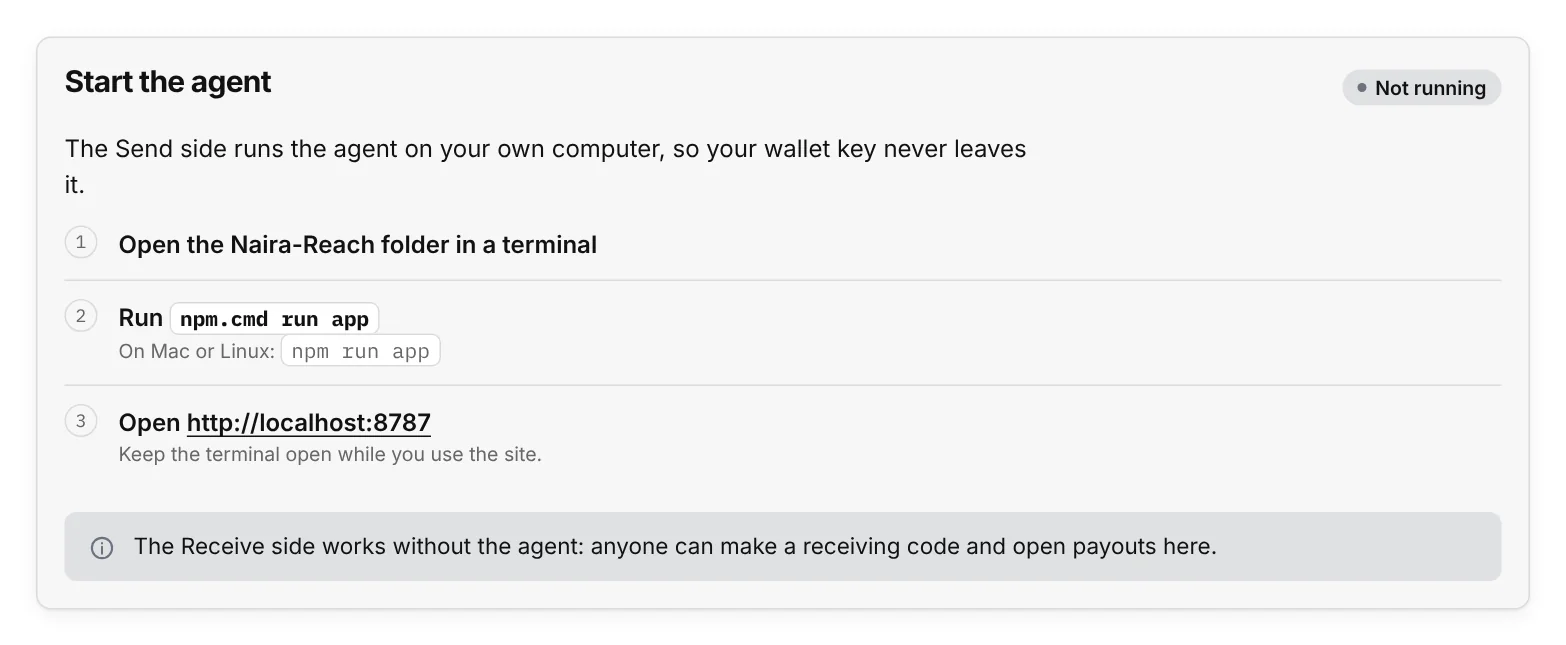
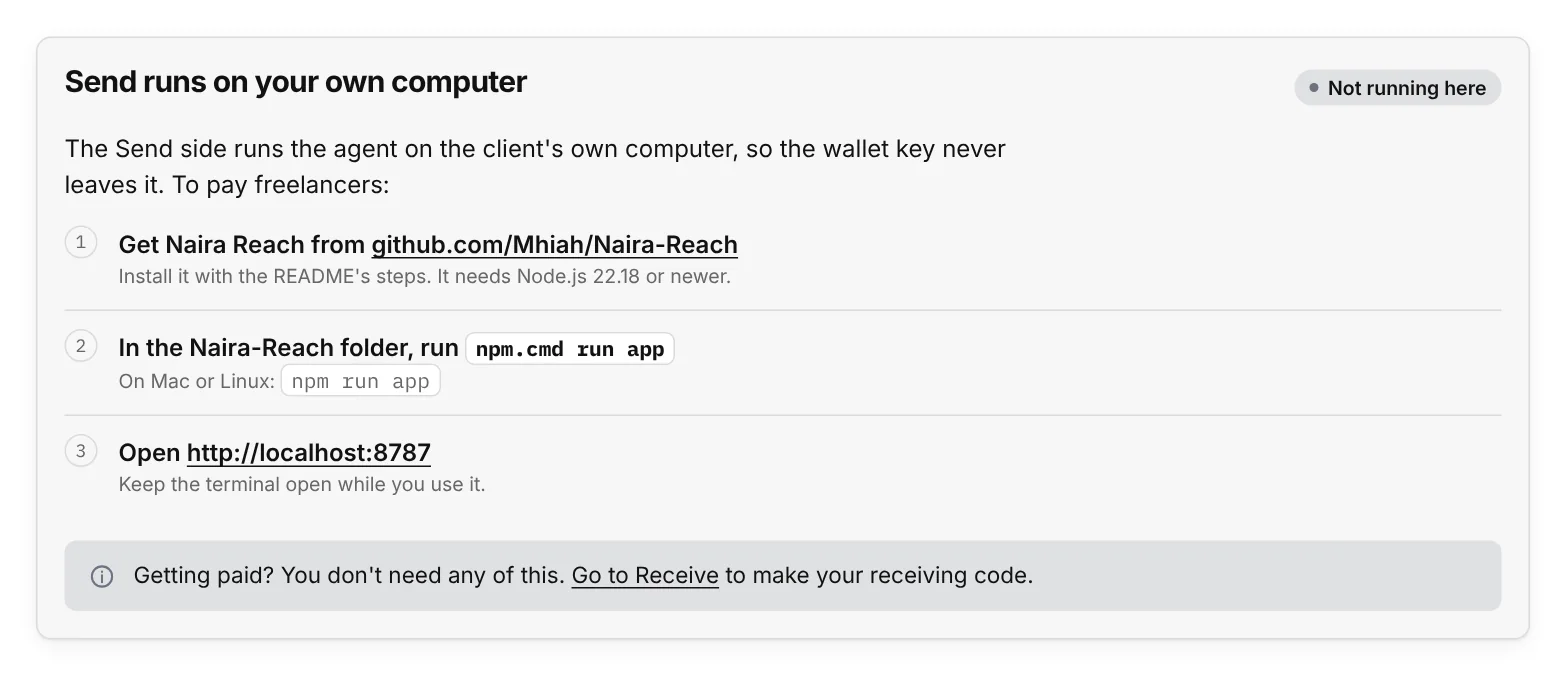
Online Receive site: opens on Receive, Send explains it runs on the client's computer, strict browser protections, moves carry the app's tag

diff --git a/web/app.js b/web/app.js
@@ -172,19 +172,29 @@
   }
 
   function agentMissing(title) {
-    const reason = CFG.agent
-      ? `The agent stopped answering (${esc(stateError)}). Is the window running it still open?`
-      : "The Send side runs the agent on your own computer, so your wallet key never leaves it.";
-    return `${head({ title })}
+    if (CFG.agent) {
+      return `${head({ title })}
     <section class="card stack" aria-label="Start the agent">
-      <div class="card-head" style="margin-bottom:0"><h2>Start the agent</h2>${badge("Not running", "neutral")}</div>
-      <p>${reason}</p>
+      <div class="card-head" style="margin-bottom:0"><h2>Start the agent</h2>${badge("Not answering", "neutral")}</div>
+      <p>The agent stopped answering (${esc(stateError)}). Is the window running it still open?</p>
       <ol class="checks">
         <li><span class="ico todo">1</span><div><div class="strong">Open the Naira-Reach folder in a terminal</div></div><span></span></li>
         <li><span class="ico todo">2</span><div><div class="strong">Run <code>npm.cmd run app</code></div><div class="small muted">On Mac or Linux: <code>npm run app</code></div></div><span></span></li>
-        <li><span class="ico todo">3</span><div><div class="strong">Open <a href="http://localhost:8787">http://localhost:8787</a></div><div class="small muted">Keep the terminal open while you use the site.</div></div><span></span></li>
+        <li><span class="ico todo">3</span><div><div class="strong">Reload this page</div></div><span></span></li>
       </ol>
-      ${callout("The Receive side works without the agent: anyone can make a receiving code and open payouts here.", "neutral")}
+    </section>`;
+    }
+    // Opened as a plain website (the online Receive site): Send can't run here.
+    return `${head({ title })}
+    <section class="card stack" aria-label="Start the agent">
+      <div class="card-head" style="margin-bottom:0"><h2>Send runs on your own computer</h2>${badge("Not running here", "neutral")}</div>
+      <p>The Send side runs the agent on the client's own computer, so the wallet key never leaves it. To pay freelancers:</p>
+      <ol class="checks">
+        <li><span class="ico todo">1</span><div><div class="strong">Get Naira Reach from <a href="https://github.com/Mhiah/Naira-Reach" target="_blank" rel="noopener">github.com/Mhiah/Naira-Reach</a></div><div class="small muted">Install it with the README's steps. It needs Node.js 22.18 or newer.</div></div><span></span></li>
+        <li><span class="ico todo">2</span><div><div class="strong">In the Naira-Reach folder, run <code>npm.cmd run app</code></div><div class="small muted">On Mac or Linux: <code>npm run app</code></div></div><span></span></li>
+        <li><span class="ico todo">3</span><div><div class="strong">Open <a href="http://localhost:8787">http://localhost:8787</a></div><div class="small muted">Keep the terminal open while you use it.</div></div><span></span></li>
+      </ol>
+      ${callout('Getting paid? You don\'t need any of this. <a href="#/get/code">Go to Receive</a> to make your receiving code.', "neutral")}
     </section>`;
   }
 

diff --git a/web/guide.js b/web/guide.js
@@ -13,6 +13,7 @@ window.NR_GUIDES = {
         alt: "The Start the agent card, shown when the agent is not running",
         intro: "The Send side runs the agent on your own computer, so your wallet key never leaves it. When the agent isn't running, every Send page shows this card instead.",
         steps: [
+          "The first time, get Naira Reach from <a href=\"https://github.com/Mhiah/Naira-Reach\" target=\"_blank\" rel=\"noopener\">github.com/Mhiah/Naira-Reach</a> and install it with the README's steps.",
           "Open <strong>PowerShell</strong> (on a Mac, <strong>Terminal</strong>).",
           "Go to the project folder: <code>cd path\\to\\Naira-Reach</code>",
           "Run <code>npm.cmd run app</code> (on a Mac: <code>npm run app</code>).",

diff --git a/web/config.js b/web/config.js
@@ -1,3 +1,7 @@
-// Opened as a plain website (no agent on this computer). The agent's server
-// replaces this with its own settings when it serves the page.
-window.NR_CONFIG = { agent: false, attributionCode: null, rpcUrl: "https://forno.celo.org" };
+// Settings for the site when it is opened as a plain website, such as the
+// online Receive site. The agent's own server replaces this with its settings
+// when it serves the page on the client's computer.
+//
+// attributionCode: Naira Reach's ERC-8021 code. Moving a payout on the Receive
+// side carries it, so the app's activity is attributed to the app.
+window.NR_CONFIG = { agent: false, attributionCode: "celo_d6a0b77183c8", rpcUrl: "https://forno.celo.org" };
